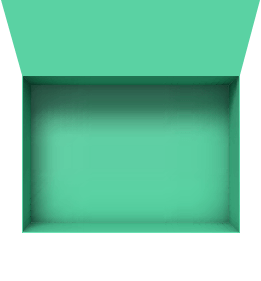
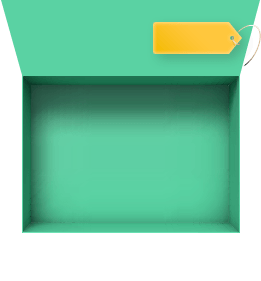
fix

Changed region(s): [[0.5824, 0.0569, 1.0, 0.2278]]

diff --git a/web/css/style.min.css b/web/css/style.min.css
@@ -1217,7 +1217,7 @@ textarea.field-text__input {
   background-size: cover;
 }
 .modal__box--green {
-  background-image: url(../img/green-box.png);
+  background-image: url(../img/green-box2.png);
   background-repeat: no-repeat; }
 .modal__img-win {
   position: absolute;
@@ -2461,6 +2461,7 @@ textarea.field-text__input {
 .products-carousel {
   position: relative;
   overflow: hidden;
+  margin-top: 15px;
 }
 .products-carousel__carousel {
   padding-left: 30px;

diff --git a/modules/opencase/controllers/UserController.php b/modules/opencase/controllers/UserController.php
@@ -72,27 +72,31 @@ class UserController extends \app\controllers\UserController {
 	}
 
 	public function actionDelivery() {
-		\Yii::$app->response->format = Response::FORMAT_JSON;
 		if (!\Yii::$app->request->isPost) {
-			return ['code' => 500, 'msg' => 'Error'];
+			echo json_encode(['code' => 500, 'msg' => 'Error']);
+			exit;
 		}
 		$user = User::getCurrentUser();
 		if (!$user) {
-			return ['code' => 500, 'msg' => 'Пожалуйста авторизируйтесь'];
+			echo json_encode(['code' => 500, 'msg' => 'Пожалуйста авторизируйтесь']);
+			exit;
 		}
 		if ($user->money - Delivery::COST < 0) {
-			return ['code' => 500, 'msg' => 'Недостаточно средств на счете'];
+			echo json_encode(['code' => 500, 'msg' => 'Недостаточно средств на счете']);
+			exit;
 		}
 
 		$deliveryAddress = DeliveryAddress::findOne(['token_index' => $user->token_index]);
 		if (!$deliveryAddress) {
-			return ['code' => 500, 'msg' => 'Не указан адресс доставки'];
+			echo json_encode(['code' => 500, 'msg' => 'Не указан адресс доставки']);
+			exit;
 		}
 
 		$post = \Yii::$app->request->post();
 		$items = $post['items'];
 		if (!$items || !is_array($items) || count($items) > 5) {
-			return ['code' => 500, 'msg' => 'Внутренняя ошибка, попробуйте позже'];
+			echo json_encode(['code' => 500, 'msg' => 'Внутренняя ошибка, попробуйте позже']);
+			exit;
 		}
 
 		/**
@@ -105,7 +109,8 @@ class UserController extends \app\controllers\UserController {
 		$confirmItems = count($basketItems) >= count($items) && count($items);
 
 		if (!$confirmItems) {
-			return ['code' => 500, 'msg' => 'Внутренняя ошибка, попробуйте позже'];
+			echo json_encode(['code' => 500, 'msg' => 'Внутренняя ошибка, попробуйте позже']);
+			exit;
 		}
 
 		foreach ($basketItems as $basketItem) {
@@ -125,7 +130,8 @@ class UserController extends \app\controllers\UserController {
 			$delivery->save();
 		}
 
-		return ['code' => 200, 'msg' => 'OK'];
+		echo json_encode(['code' => 200, 'msg' => 'OK']);
+		exit;
 	}
 
 	/**

diff --git a/controllers/SiteController.php b/controllers/SiteController.php
@@ -332,17 +332,19 @@ class SiteController extends Controller {
 	}
 
 	public function actionPromo($code) {
-		\Yii::$app->response->format = Response::FORMAT_JSON;
 		$user = User::getCurrentUser();
 		if (!$user) {
-			return ['code' => 500, 'msg' => 'Вы не авторизованы'];
+			echo json_encode(['code' => 500, 'msg' => 'Вы не авторизованы']);
+			exit;
 		}
 
 		$promo = PromoCodes::findOne(['promocode' => $code]);
 		if ($promo) {
-			return $this->_promoPartner($user, $promo);
+			echo json_encode( $this->_promoPartner($user, $promo));
+			exit;
 		} else {
-			return $this->_promoUser($user, $code);
+			echo json_encode( $this->_promoUser($user, $code));
+			exit;
 		}
 	}
 
@@ -497,7 +499,6 @@ class SiteController extends Controller {
 	 * @return array
 	 */
 	public function actionSell($id, $bid) {
-		\Yii::$app->response->format = Response::FORMAT_JSON;
 		$item = Items::findOne($id);
 		$user = User::getCurrentUser();
 		$basket = Basket::find()
@@ -506,18 +507,21 @@ class SiteController extends Controller {
 			->one();
 
 		if (!$user || !$item || !$basket) {
-			return ['code' => 500, 'msg' => 'Внутренняя ошибка'];
+			echo json_encode(['code' => 500, 'msg' => 'Внутренняя ошибка']);
+			exit;
 		}
 
 		if ($basket->item_id != $id) {
-			return ['code' => 500, 'msg' => 'Ошибка в запросе'];
+			echo json_encode(['code' => 500, 'msg' => 'Ошибка в запросе']);
+			exit;
 		}
 
 		$user->money += $item->cost_sell;
 		$user->save();
 
 		$basket->delete();
-		return ['code' => 200, 'msg' => 'ok', 'balance' => $user->money];
+		echo json_encode(['code' => 200, 'msg' => 'ok', 'balance' => $user->money]);
+		exit;
 	}
 
 	public function actionUser($token) {

diff --git a/modules/opencase/views/gameconfig/index.php b/modules/opencase/views/gameconfig/index.php
@@ -26,7 +26,11 @@ $this->title = 'Персональные подкрутки';
 			[
 				'attribute' => 'user.name',
 				'value' => function (\app\modules\opencase\models\GameConfig $model) {
-					return Html::a($model->user->name, Url::toRoute(['user/view', 'id' => $model->user->id]));
+					if (isset($model->user)) {
+						return Html::a($model->user->name, Url::toRoute(['user/view', 'id' => $model->user->id]));
+					} else {
+						return null;
+					}
 				},
 				'format' => 'raw'
 			],
@@ -35,17 +39,17 @@ $this->title = 'Персональные подкрутки';
 			'case_type',
 			'item_id' => [
 				'value' => function (\app\modules\opencase\models\GameConfig $model) {
-					return Html::a($model->item->title, ['/opencase/item/view', 'id' => $model->item_id ]);
+					return Html::a($model->item->title, ['/opencase/item/view', 'id' => $model->item_id]);
 				},
-                'label' => 'предмет',
-                'format' => 'raw'
+				'label' => 'предмет',
+				'format' => 'raw'
 			],
 			'item_img' => [
 				'value' => function (\app\modules\opencase\models\GameConfig $model) {
 					return Html::img($model->item->image);
 				},
-                'label' => 'картинка',
-                'format' => 'raw'
+				'label' => 'картинка',
+				'format' => 'raw'
 			],
 			'chance',
 			// 'message',

diff --git a/modules/opencase/controllers/GameController.php b/modules/opencase/controllers/GameController.php
@@ -14,13 +14,28 @@ class GameController extends OpenboxController {
 
 	public $enableCsrfValidation = false;
 
+	public function behaviors()
+	{
+		return [
+			[
+				'class' => 'yii\filters\HttpCache',
+				'only' => ['index'],
+				'lastModified' => function ($action, $params) {
+					return time();
+				},
+			],
+		];
+	}
+
 	/**
 	 * @param integer $caseType
 	 * @return mixed|string
 	 */
 	public function actionRun($caseType) {
 
-		\Yii::$app->response->format = Response::FORMAT_JSON;
+		http_response_code(200);
+
+		header('Expires: ' . gmdate('D, d M Y H:i:s', time()) . ' GMT');
 
 		$user = User::getCurrentUser();
 		if (!$user) {
@@ -76,8 +91,9 @@ class GameController extends OpenboxController {
 		}
 
 		$user->save();
-
-		return $r;
+		http_response_code(200);
+		echo json_encode($r);
+		exit;
 	}
 
 	/**

diff --git a/views/site/box.php b/views/site/box.php
@@ -156,7 +156,10 @@ HTML;
 
         $.ajax({
             dataType: 'json',
-            url: '<?= Url::toRoute(['/opencase/game/run', 'caseType' => $type]) ?>',
+            type: 'post',
+            cache: false,
+//            url: '<?//= Url::toRoute(['/opencase/game/run', 'caseType' => $type, 'a' => 1]) ?>//',
+            url: "/opencase/game/run?caseType=<?= $type?>",
             data: {_csrf: csrfToken},
             success: function (data) {
                 if (data.code == 200 & data.caseType == caseType & data.id > 0) {

diff --git a/modules/opencase/views/gameconfig/view.php b/modules/opencase/views/gameconfig/view.php
@@ -31,7 +31,11 @@ $this->title = $model->id;
 			[
 				'attribute' => 'user.name',
 				'value' => function (\app\modules\opencase\models\GameConfig $model) {
-					return Html::a($model->user->name, Url::toRoute(['user/view', 'id' => $model->user->id]));
+					if (isset($model->user)) {
+						return Html::a($model->user->name, Url::toRoute(['user/view', 'id' => $model->user->id]));
+					} else {
+						return null;
+					}
 				},
                 'format' => 'raw'
 			],

diff --git a/views/layouts/clear.php b/views/layouts/clear.php
@@ -26,7 +26,9 @@ $cntBoxs = intval(Yii::$app->params['boxCounts']) + GameLog::find()->count();
     <meta charset="utf-8">
     <title>Box</title>
     <meta name="description" content="">
-
+    <meta http-equiv="Cache-control" content="no-cache">
+    <meta http-equiv="Pragma" content="no-cache">
+    <meta http-equiv="Expires" content="-1">
     <meta name="viewport" content="width=device-width, initial-scale=1">
 
     <meta name="format-detection" content="telephone=no">

diff --git a/modules/opencase/models/GameConfig.php b/modules/opencase/models/GameConfig.php
@@ -55,7 +55,10 @@ class GameConfig extends \yii\db\ActiveRecord
 	public function beforeSave($insert) {
 
     	if ($insert) {
-			$this->token_index = crc32($this->token);
+			$user = User::findOne(['token_index' => $this->token_index]);
+			if ($user) {
+				$this->token = $user->token;
+			}
 		}
     	return parent::beforeSave($insert);
     }
